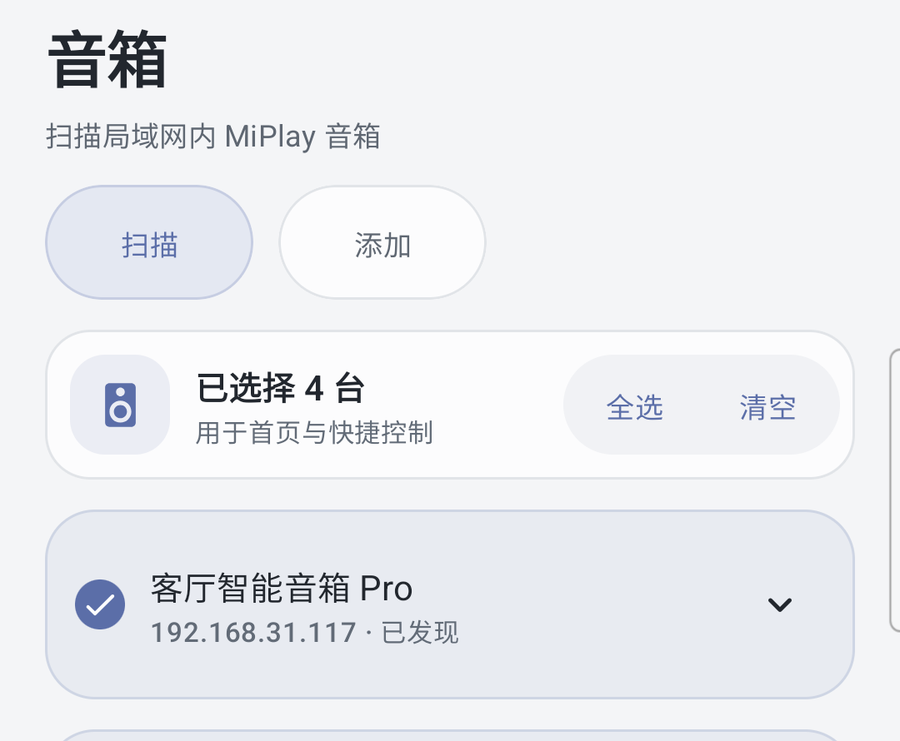
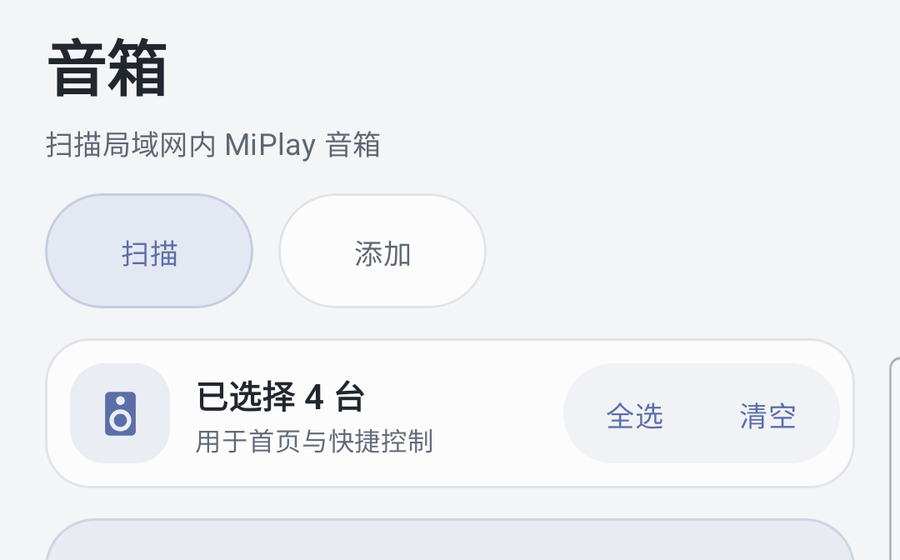
pages: refine hero collage, keep screenshots free of member screen and LAN IPs

diff --git a/docs/index.html b/docs/index.html
@@ -56,16 +56,24 @@
   .cta{display:flex;gap:12px;flex-wrap:wrap;margin:26px 0 18px}
   .meta{display:flex;gap:8px;flex-wrap:wrap}
   /* collage */
-  .collage{position:relative;height:390px}
+  .collage{position:relative;height:430px}
   .shot{
     position:absolute;border-radius:20px;overflow:hidden;background:#fff;
     border:1px solid rgba(255,255,255,.14);
     box-shadow:0 30px 60px rgba(0,0,0,.55),0 0 0 1px rgba(255,255,255,.04) inset;
   }
   .shot img{display:block;width:100%;height:100%;object-fit:cover;object-position:top center}
-  .shot.s1{width:252px;height:208px;left:0;top:78px;transform:rotate(-6deg);z-index:2}
-  .shot.s2{width:296px;height:244px;right:0;top:8px;transform:rotate(5deg);z-index:3}
-  .shot.s3{width:268px;height:243px;left:19%;bottom:8px;transform:rotate(-2deg);z-index:4}
+  .shot.s1{width:322px;height:265px;left:0;top:0;transform:rotate(-3deg);z-index:2}
+  .shot.s2{width:286px;height:178px;right:0;top:158px;transform:rotate(3deg);z-index:3}
+  .badge{
+    position:absolute;left:6%;bottom:6px;z-index:6;display:flex;align-items:center;gap:12px;
+    padding:14px 18px;border-radius:16px;background:rgba(13,18,34,.82);
+    border:1px solid rgba(255,255,255,.14);backdrop-filter:blur(12px);
+    box-shadow:0 18px 40px rgba(0,0,0,.5);
+  }
+  .badge b{display:block;font-size:14px}
+  .badge small{color:var(--muted);font-size:12px}
+  .badge .dot{width:9px;height:9px;flex:none}
   .phonebar{position:absolute;top:8px;left:50%;transform:translateX(-50%);width:56px;height:6px;border-radius:6px;background:rgba(10,14,24,.55);z-index:5}
   /* sections */
   section{padding:64px 0}
@@ -89,7 +97,7 @@
     border:1px solid var(--line);border-radius:26px;padding:14px;transition:.25s transform,.25s box-shadow;
   }
   .frame:hover{transform:translateY(-6px);box-shadow:0 24px 50px rgba(0,0,0,.45)}
-  .frame .screen{border-radius:18px;overflow:hidden;background:#fff;border:1px solid rgba(0,0,0,.12);aspect-ratio:900/735}
+  .frame .screen{border-radius:18px;overflow:hidden;background:#fff;border:1px solid rgba(0,0,0,.12);aspect-ratio:900/700}
   .frame .screen img{width:100%;height:100%;object-fit:cover;object-position:top center;display:block}
   .frame figcaption{margin:12px 4px 2px;color:var(--muted);font-size:13.5px}
   .frame b{color:var(--text);display:block;font-size:14.5px;margin-bottom:2px}
@@ -125,10 +133,12 @@
     .brand .chip{display:none}
     nav .btn.primary{padding:9px 14px;font-size:13.5px;white-space:nowrap}
     .hero{padding-top:26px;gap:26px}
-    .collage{height:270px;order:0}
-    .shot.s1{width:168px;height:139px;left:0;top:44px}
-    .shot.s2{width:196px;height:162px;right:0;top:0}
-    .shot.s3{width:176px;height:160px;left:20%;bottom:0}
+    .collage{height:268px;order:0}
+    .shot.s1{width:206px;height:169px;left:0;top:0}
+    .shot.s2{width:184px;height:115px;right:0;top:96px}
+    .badge{left:2%;bottom:0;padding:10px 12px;gap:9px}
+    .badge b{font-size:12.5px}
+    .badge small{font-size:11px}
     h1{font-size:34px}
     .cta{gap:10px}
     .cta .btn{flex:1 1 auto;justify-content:center}
@@ -178,9 +188,9 @@
         </div>
       </div>
       <div class="collage" aria-hidden="true">
-        <div class="shot s1"><img src="assets/shot-speakers.png" alt=""></div>
-        <div class="shot s2"><img src="assets/shot-home.png" alt=""></div>
-        <div class="shot s3"><img src="assets/shot-detail.png" alt=""></div>
+        <div class="shot s1"><img src="assets/shot-home.png" alt=""></div>
+        <div class="shot s2"><img src="assets/shot-speakers.png" alt=""></div>
+        <div class="badge"><span class="dot"></span><div><b>4 台音箱同时推送</b><small>同一时间线同步播放</small></div></div>
       </div>
     </div>
   </div>
